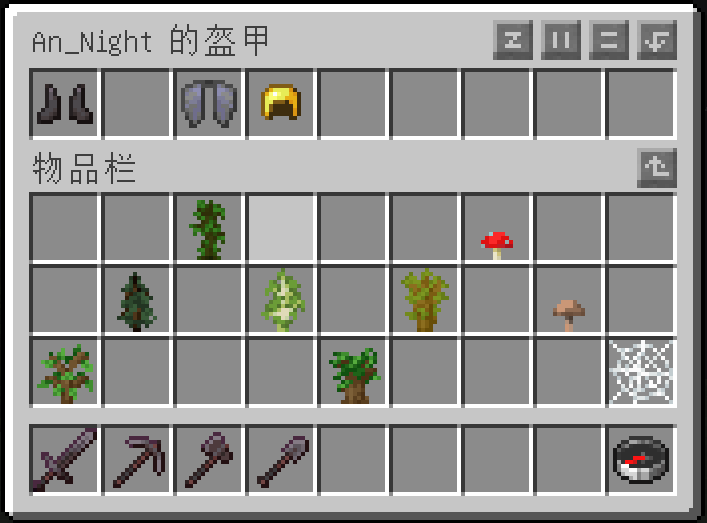
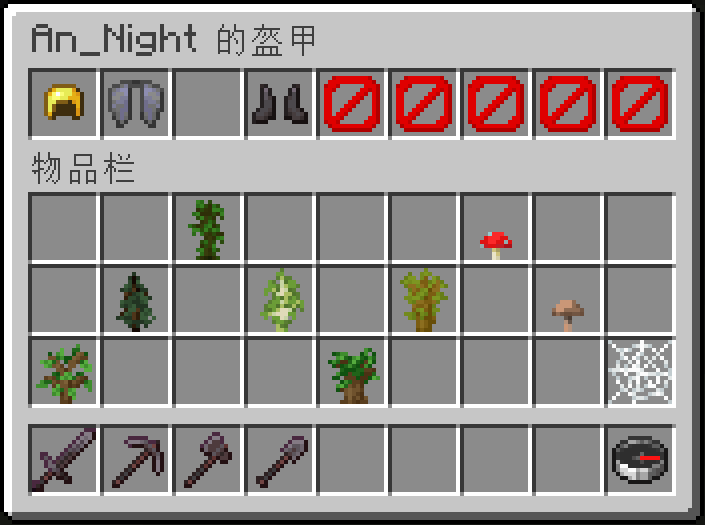
移除 build.gradle 中 Modrinth 任务的debugMode；更新版本号；更新 Readme；更新图片

diff --git a/modrinth/README.md b/modrinth/README.md
@@ -49,7 +49,7 @@ Important:
 
 4. `/slots-checker armor <player>`  
    Open the player's armor interface.  
-   The first four columns are in sequence: boots, leg guards, breastplates, and helmets. The last five fields are invalid.  
+   The first four columns are in sequence: helmets, chestplates, leggings, and boots. The last five fields are invalid.  
    This interface has no item restrictions. Any item can be directly placed in the armor slot.  
    ![Armor](https://cdn-alt.modrinth.com/data/1wrPNL41/images/3dc942ca09e327de26c6b829f004fe4e2ce6ff61.png)
 

diff --git a/Readme.en.md b/Readme.en.md
@@ -49,7 +49,7 @@ Important:
 
 4. `/slots-checker armor <player>`  
    Open the player's armor interface.  
-   The first four columns are in sequence: boots, leg guards, breastplates, and helmets. The last five fields are invalid.  
+   The first four columns are in sequence: helmets, chestplates, leggings, and boots. The last five fields are invalid.  
    This interface has no item restrictions. Any item can be directly placed in the armor slot.  
    ![](doc/armor.png)
 

diff --git a/Readme.zh-CN.md b/Readme.zh-CN.md
@@ -49,7 +49,7 @@ Wiki：
 
 4. `/slots-checker armor <玩家>`  
     打开玩家的盔甲槽界面。  
-    前 4 个栏位依次为：靴子、护腿、胸甲、头盔；后 5 个栏位无效。  
+    前 4 个栏位依次为：头盔、胸甲、护腿、靴子；后 5 个栏位无效。  
     此界面没有物品限制，任意物品均可直接放入盔甲栏位。  
     ![](doc/armor.png) 
 

diff --git a/changelogs/2.1.0.md b/changelogs/2.1.0.md
@@ -1,0 +1,4 @@
+修改：
+* Armor 和 Offhand 界面中，无用的槽位现在被固定为屏障物品，且无法与之交互。
+* Armor 界面中，槽位的顺序变为正序：头盔-衣服-护腿-靴子。
+* 优化代码。
